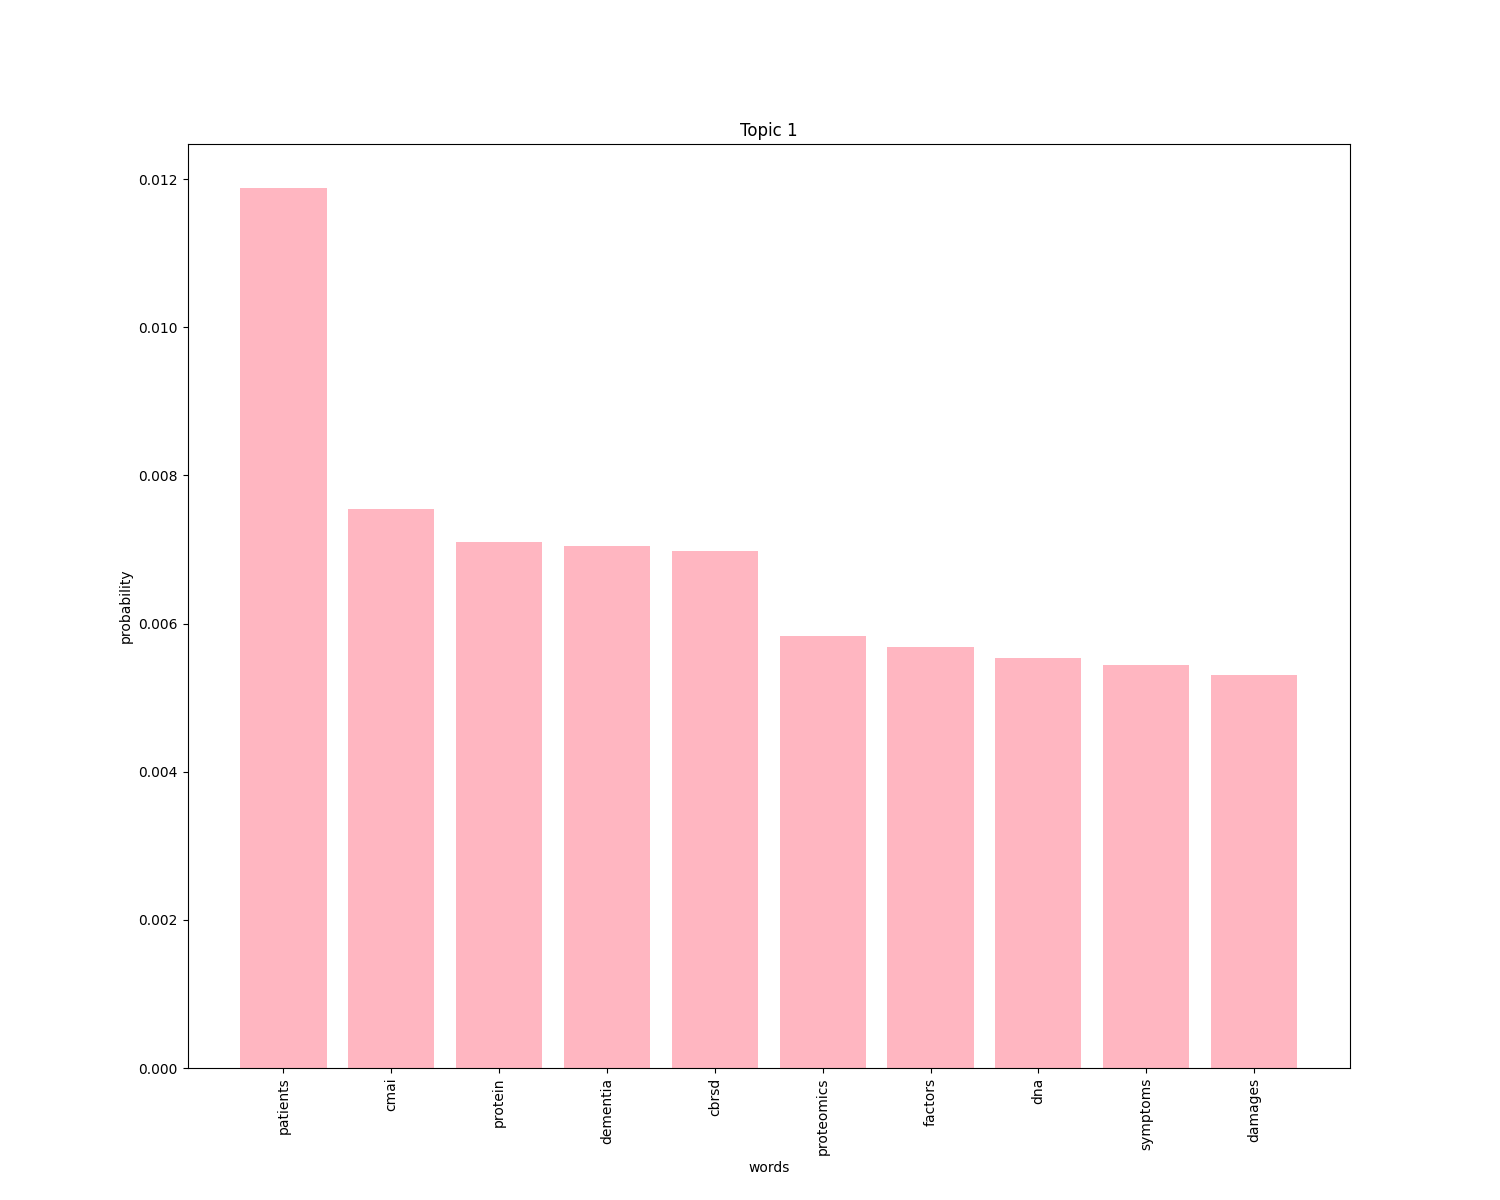
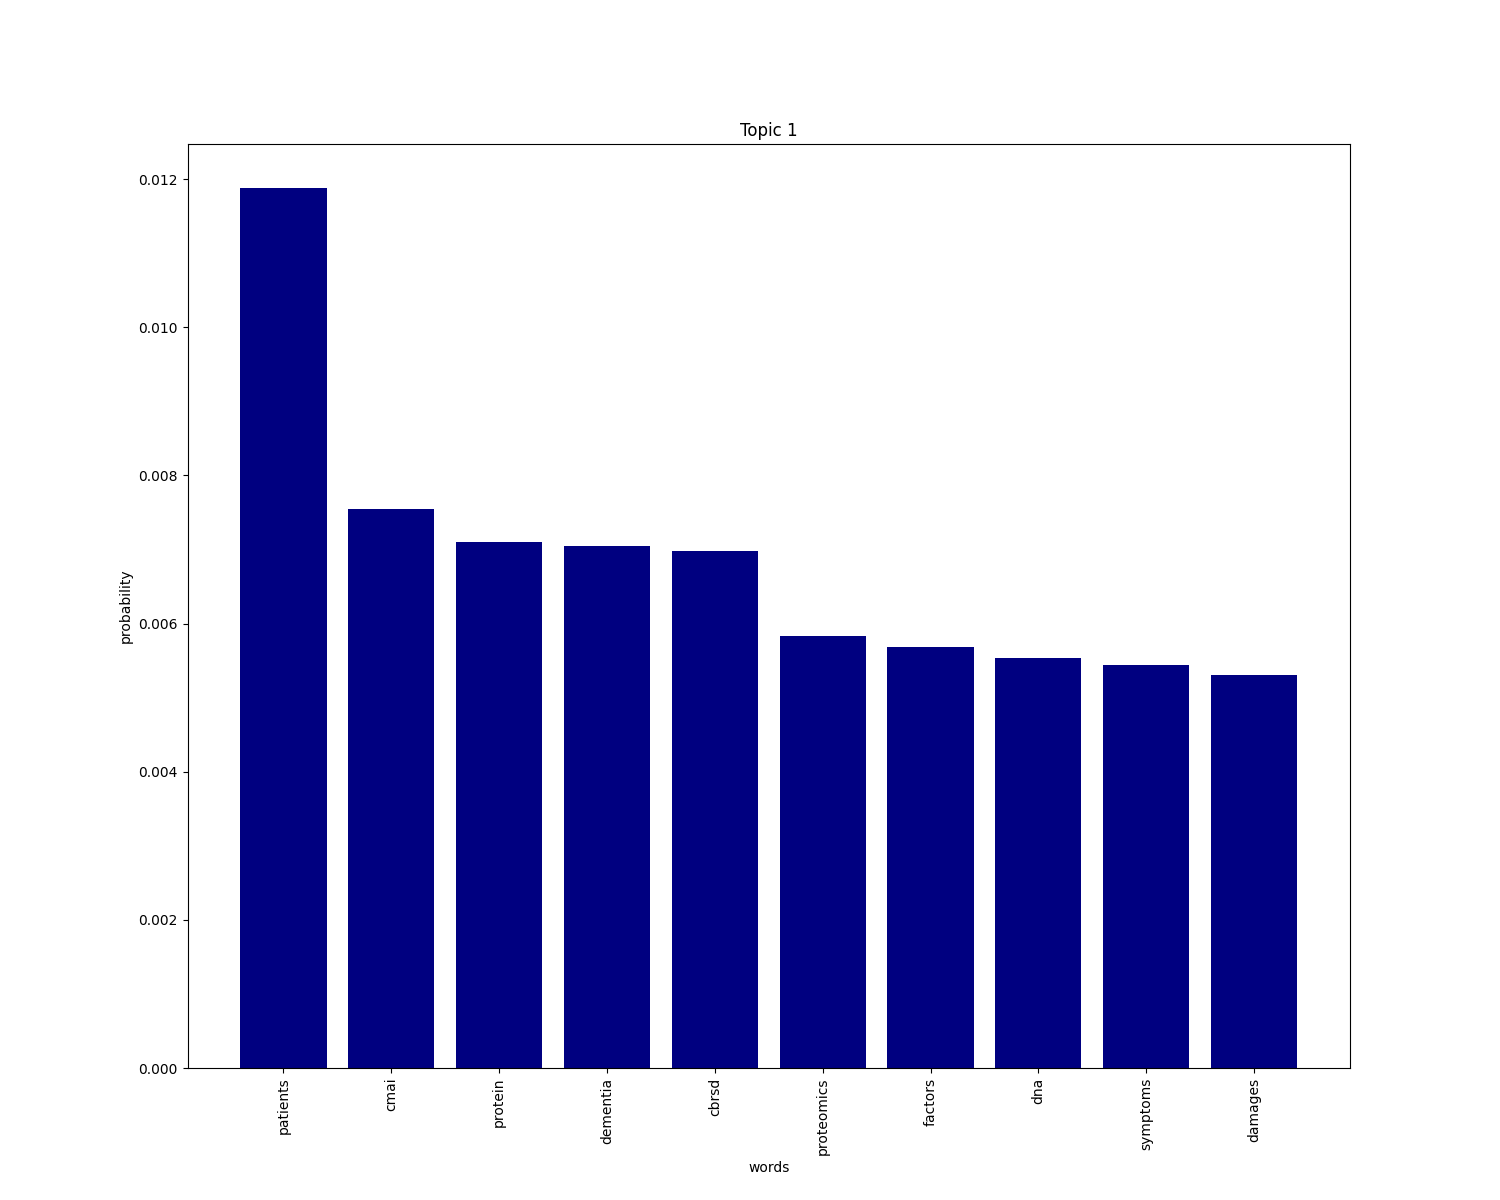
CHARTS AGAIN

Changed region(s): [[0.1533, 0.1542, 0.8893, 0.8942]]

diff --git a/src/Plot.py b/src/Plot.py
@@ -55,7 +55,7 @@ def plot_test(file_name, test, color):
         labels = list(data[str(j)].keys())
         values = list(map(float, data[str(j)].values()))
         plot_bar(labels, values, 'words', 'probability',
-                 f"Topic {j}", color, f'plots/test_{test}/topic_{j}.png')
+                 f"Topic {j}", color, f'plots/test_{test}_no_stopwords_dataset_2/topic_{j}.png')
 
 
 def read_coherence_perplexity(file_name):
@@ -91,7 +91,7 @@ def plot_coherence_perplexity(file_name):
 
 #plot_coherence_perplexity('dataset_1/no_stopwords_diff_n_topics/')
 
-#plot_test('dataset_1/stopwords/test_5.json', 5, 'lightskyblue')
+plot_test('dataset_2/no_stopwords/test_5.json', 5, 'navy')
 
 # coherence, perplexity = read_coherence_perplexity('dataset_1/stopwords/')
 # print(f"D1 Stopwords Coherence {sum(coherence)/len(coherence)}")
